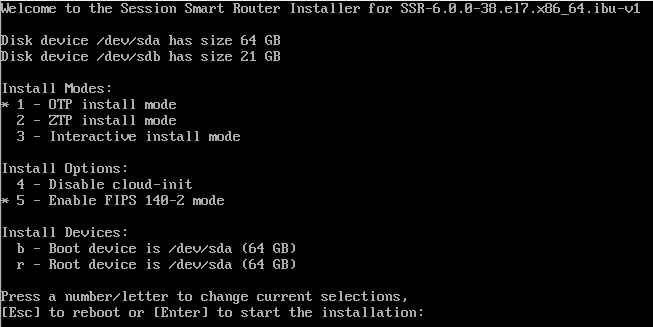
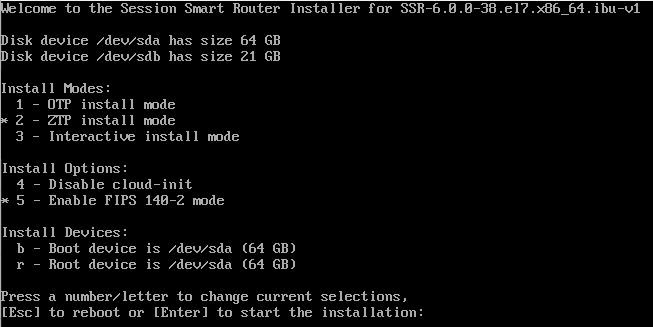
updating IBU install per DOCS-385, correcting screenshot and adding info explaining that OTP and Interactive installs are not supported methods for IBU.

Changed region(s): [[0.0, 0.2446, 0.2757, 0.3976], [0.0613, 0.367, 0.3675, 0.4281]]

diff --git a/docs/intro_installation_image.md b/docs/intro_installation_image.md
@@ -49,7 +49,7 @@ Use the instructions [Creating a Bootable ISO](intro_creating_bootable_usb.md) t
 
 	![Select Mode](/img/install_imagebased_1.png)
 
-3. In the Installer window, select 2 for the ZTP Install Mode. This is the default mode for image-based installation.  
+3. In the Installer window, select 2 for the ZTP Install Mode. This mode supports the image-based installation. OTP and Interactive modes are not supported for image-based install.  
 
 	![Select Install Mode](/img/install_imagebased_2.png)
 
